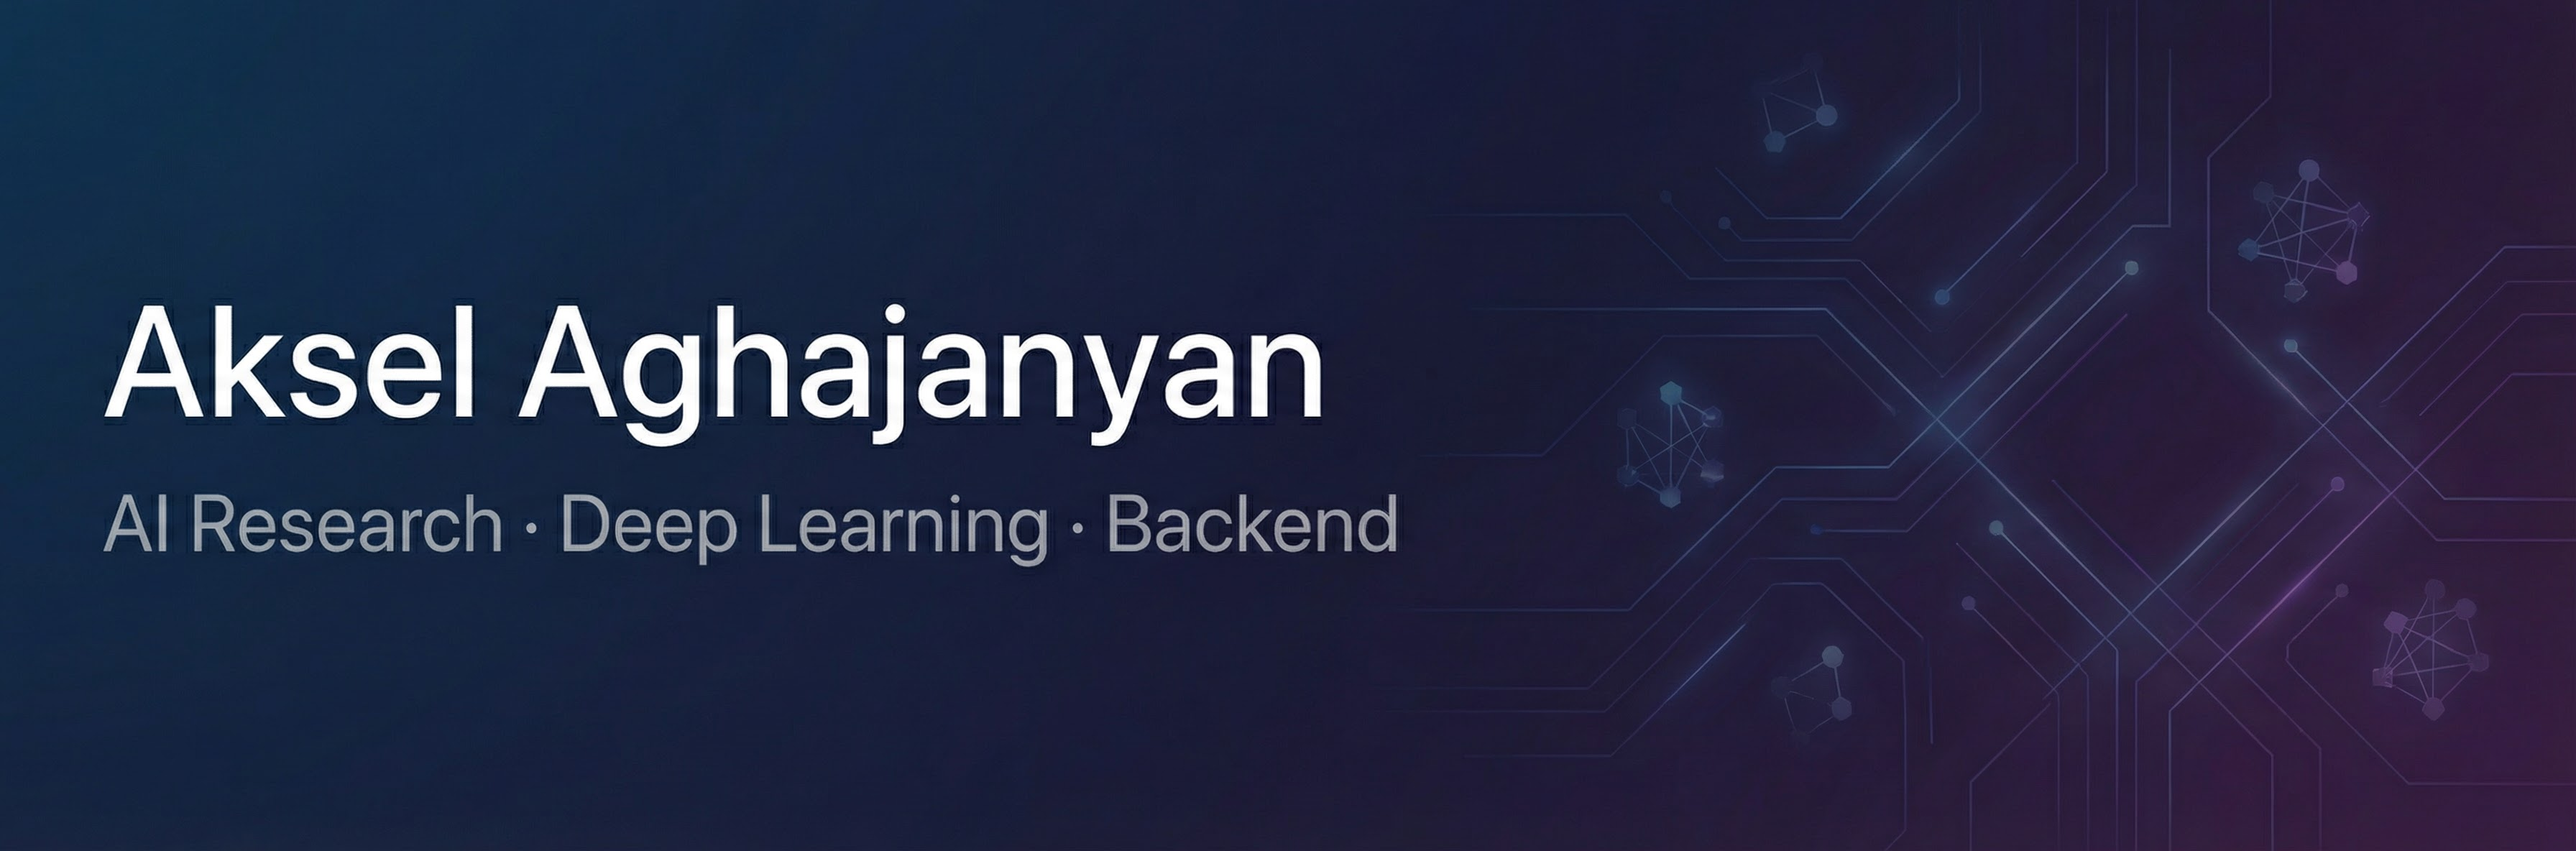
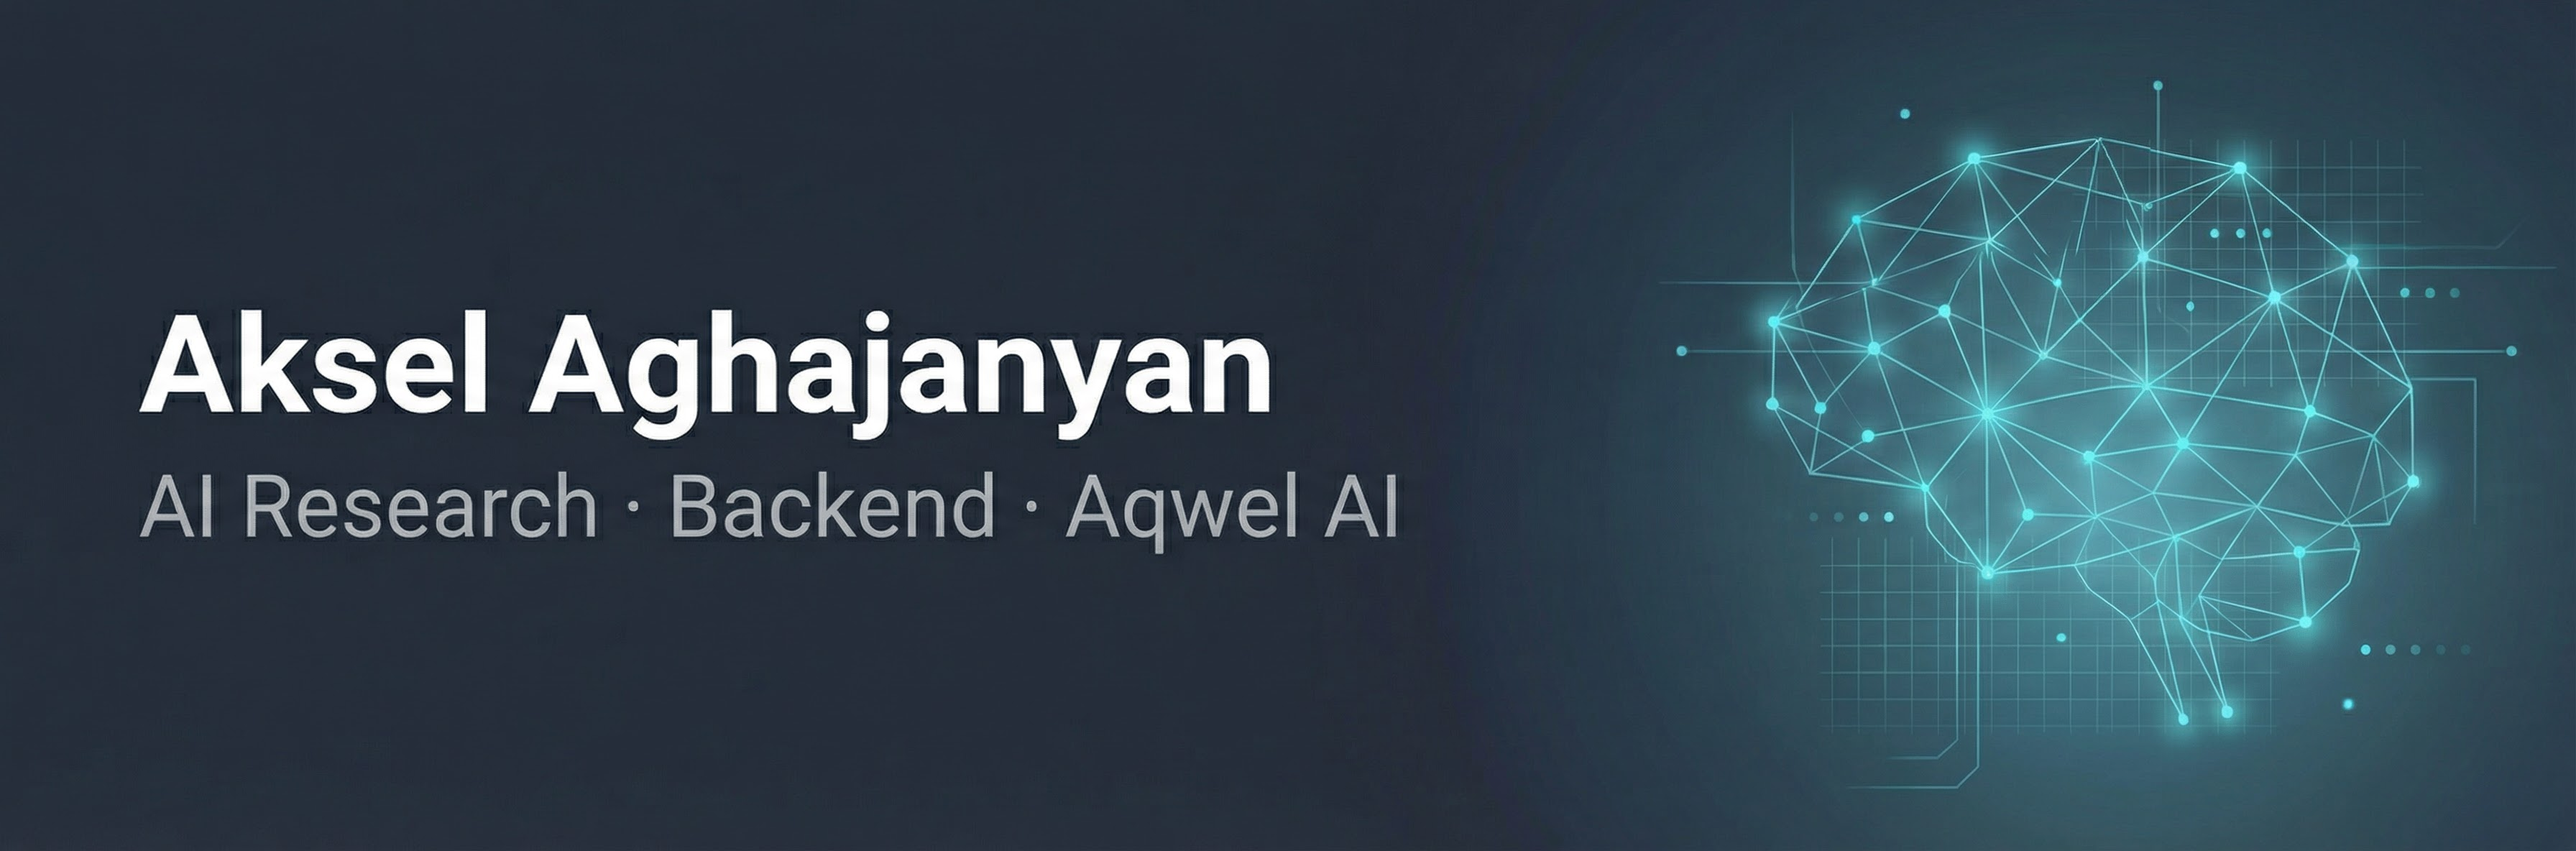
Update

diff --git a/README.md b/README.md
@@ -1,89 +1,145 @@
-## Aksel Aghajanyan  
-**AI Research Student | Deep Learning Developer | Backend Engineer**
+<div align="center">
 
-I’m **Aksel**, an AI research student and backend developer from **Armenia**, focused on understanding and building intelligent systems with strong foundations in **mathematics, machine learning, and software engineering**.
+![Profile Banner](./profile-banner.png)
 
-I have hands-on experience developing scalable backend applications using **Python, PHP (Laravel), and MySQL**, and I actively explore how modern AI techniques can be applied in real-world systems. My interests lie at the intersection of **AI research, intelligent agents, automation, and system-level design**.
+# Aksel Aghajanyan
+
+**AI Research Student · Backend Developer · Founder of Aqwel AI**
+
+*Developing [Aion](https://github.com/AkseL588) (Open Research Toolkit) · Focused on Mathematics & Intelligent Systems*
+
+[![GitHub](https://img.shields.io/badge/GitHub-AkseL588-181717?style=for-the-badge&logo=github)](https://github.com/AkseL588)
+[![LinkedIn](https://img.shields.io/badge/LinkedIn-aksel--aghajanyan-0A66C2?style=for-the-badge&logo=linkedin)](https://linkedin.com/in/aksel-aghajanyan)
+[![Email](https://img.shields.io/badge/Email-akseldeveloper8@gmail.com-EA4335?style=for-the-badge&logo=gmail)](mailto:akseldeveloper8@gmail.com)
+
+</div>
+
+<div align="center">
+
+[![GitHub Stats](https://github-readme-stats.vercel.app/api?username=AkseL588&show_icons=true&theme=default&hide_border=true)](https://github.com/AkseL588)
+[![Top Languages](https://github-readme-stats.vercel.app/api/top-langs/?username=AkseL588&layout=compact&theme=default&hide_border=true)](https://github.com/AkseL588)
+[![GitHub Streak](https://github-readme-streak-stats.herokuapp.com/?user=AkseL588&theme=default&hide_border=true)](https://github.com/AkseL588)
+
+</div>
 
 ---
 
-## AI & Machine Learning (Learning Path)
+## About
 
-- Python for AI development, scripting, and automation  
+Hi, I'm **Aksel**, an AI research student and deep learning developer from **Armenia**, focused on understanding and building intelligent systems grounded in strong mathematical and engineering foundations.
+
+I am particularly interested in **deep learning** and **large language models**, and in learning how advanced AI systems are trained, optimized, and deployed efficiently.
+
+**Top skills:** Python · Artificial Intelligence · Machine Learning · Deep Learning · Data Science
+
+---
+
+## AI & Machine Learning — Learning Path (In Progress)
+
+- Python for AI development, automation, and APIs  
+- Advanced Python programming for AI systems  
+- Data & scientific stack: **NumPy, Pandas, Matplotlib, Seaborn, SciPy**, Jupyter  
 - Deep learning with **PyTorch** and **TensorFlow**  
 - Large Language Models (LLMs): **LLaMA, OpenAI API, LangChain**  
 - Retrieval-Augmented Generation (RAG) systems  
 - Vector databases: **Qdrant, Pinecone, Weaviate**  
-- Prompt engineering and AI agent design  
-- Core ML concepts: regression, classification, k-NN, SVM  
-- Decision trees, ensemble methods, gradient boosting  
+- Prompt engineering and intelligent agent design  
+- Core ML: **scikit-learn**, regression, classification, k-NN, SVM, decision trees, ensemble methods, gradient boosting  
 - Neural networks: **CNNs, RNNs, LSTMs**, generative models (GANs)  
 - Fundamentals of **NLP** and **computer vision**  
-- Data science basics: EDA, pipelines, model evaluation  
+- Data science: EDA, pipelines, model evaluation and optimization  
+- GPU acceleration: **CUDA, Triton, TensorRT** (exploration)  
 
-> Focused on understanding how models work internally, not only using high-level APIs.
+> My focus is on understanding **how and why** models work, not only using high-level tools.
 
 ---
 
-## Mathematics for AI
+## Data Science
 
-- Linear algebra: vectors, matrices, transformations  
-- Probability theory and statistics  
-- Optimization basics: loss functions, gradient descent  
-- Discrete mathematics and logic for algorithms  
+- **NumPy** — numerical computing, arrays, linear algebra  
+- **Pandas** — data manipulation, cleaning, analysis, time series  
+- **Matplotlib** & **Seaborn** — visualization, EDA, statistical plots  
+- **SciPy** — scientific computing, optimization, statistics  
+- **scikit-learn** — preprocessing, model selection, evaluation, pipelines  
+- **Jupyter** — interactive notebooks for analysis and experimentation  
+- Exploratory data analysis (EDA), feature engineering, model evaluation  
+- Statistics, hypothesis testing, and communicating insights  
 
 ---
 
 ## Automation & Bots
 
-- Telegram bots built with **Python** and `pyTelegramBotAPI`  
+- Telegram bots with **Python** and `pyTelegramBotAPI`  
 - LLM integration for intelligent automation  
 - Real-time message handling with contextual memory  
 
 ---
 
-## Backend & Systems
+## Research Interests & Long-Term Vision
 
-- Backend: Python, PHP, Laravel, REST APIs, MVC  
-- Databases: MySQL, MongoDB, Redis  
-- DevOps: Git, GitHub, Docker, basic CI/CD, VPS deployment  
-
----
-
-## GPU Computing (Exploration)
-
-- Learning CUDA fundamentals and parallel programming concepts  
-- Exploring Triton Inference Server and TensorRT for efficient inference  
-- Interested in GPU-accelerated AI systems and performance optimization  
+- Artificial intelligence and intelligent agents  
+- Deep learning and large language models  
+- Mathematics for AI and optimization  
+- GPU-accelerated computing and efficient inference  
+- Building reliable, scalable AI-backed systems  
 
 ---
 
 ## Game Development (Hobby)
 
-Game development is a personal experimental space.
+Game development is a personal interest and experimental space.
 
-- Unreal Engine 5 (Blueprints, basic C++)  
+- **Unreal Engine 5** (Blueprints, basic C++)  
 - Gameplay prototyping and environment design  
-- AI behavior trees, cutscenes, and cinematic tools  
+- AI behavior trees, cutscenes, cinematic tools  
 - Using games as a sandbox for AI, simulation, and systems thinking  
 
 ---
 
-## AqwelAl
+## Founder — Aqwel AI
 
-Founder of **AqwelAl**, an early-stage personal initiative focused on:
+Founder of **[Aqwel AI](https://aqwelai.xyz)**, an early-stage initiative focused on learning, experimentation, and open development of **AI-powered tools**.
+
 - AI experimentation and learning  
-- Intelligent automation tools  
-- Open-source Python utilities  
+- Intelligent automation  
+- Open research & tooling (e.g. **Aion**)  
+
+**Website:** [aqwelai.xyz](https://aqwelai.xyz)  
 
 ---
 
-## Contact
+## Newsletter — Aksel with AI
 
-- GitHub: https://github.com/AkseL588  
-- LinkedIn: https://linkedin.com/in/aksel-aghajanyan  
-- Email: akseldeveloper8@gmail.com  
+[**Aksel with AI**](https://akselwithai.xyz) — where I share my vision of building future AI tools and my startup journey with Aqwel AI. From technical deep dives to product and research updates.
+
+[![Subscribe on LinkedIn](https://img.shields.io/badge/Subscribe_on_LinkedIn-0A66C2?style=for-the-badge&logo=linkedin)](https://www.linkedin.com/build-relation/newsletter-follow?entityUrn=7401608552454201344)
+
+*Published weekly · 130+ subscribers*
 
 ---
 
-> *Learn the fundamentals. Build with purpose. Improve continuously.*
+## Articles
+
+- [**The Geometry of the Double Descent: How Overparameterized Models Learn Beyond Classical Limits**](https://medium.com/frontiers-of-data-science/the-geometry-of-the-double-descent-how-overparameterized-models-learn-beyond-classical-limits-10fbbaee56ff) — *Frontiers of Data Science*
+- [**Why Mathematical Reasoning Exposes the Limits of AI**](https://medium.com/@AkselAghajanyan/why-mathematical-reasoning-exposes-the-limits-of-ai-437ded440936)
+- [**Why Bigger Models Don't Automatically Mean Smarter AI**](https://medium.com/@AkselAghajanyan/why-bigger-models-dont-automatically-mean-smarter-ai-fcdbb0789ea6)
+
+---
+
+git a## Let's connect
+
+Open to **research collaboration**, **internships**, and **ML engineering** opportunities. Happy to discuss AI, deep learning, or building intelligent systems.
+
+Reach out via [LinkedIn](https://linkedin.com/in/aksel-aghajanyan) or [email](mailto:akseldeveloper8@gmail.com).
+
+---
+
+<div align="center">
+
+### Connect
+
+[![GitHub](https://img.shields.io/badge/GitHub-AkseL588-181717?style=flat-square&logo=github)](https://github.com/AkseL588)
+[![LinkedIn](https://img.shields.io/badge/LinkedIn-Aksel%20Aghajanyan-0A66C2?style=flat-square&logo=linkedin)](https://linkedin.com/in/aksel-aghajanyan)
+[![Email](https://img.shields.io/badge/Email-akseldeveloper8@gmail.com-EA4335?style=flat-square&logo=gmail)](mailto:akseldeveloper8@gmail.com)
+
+</div>
